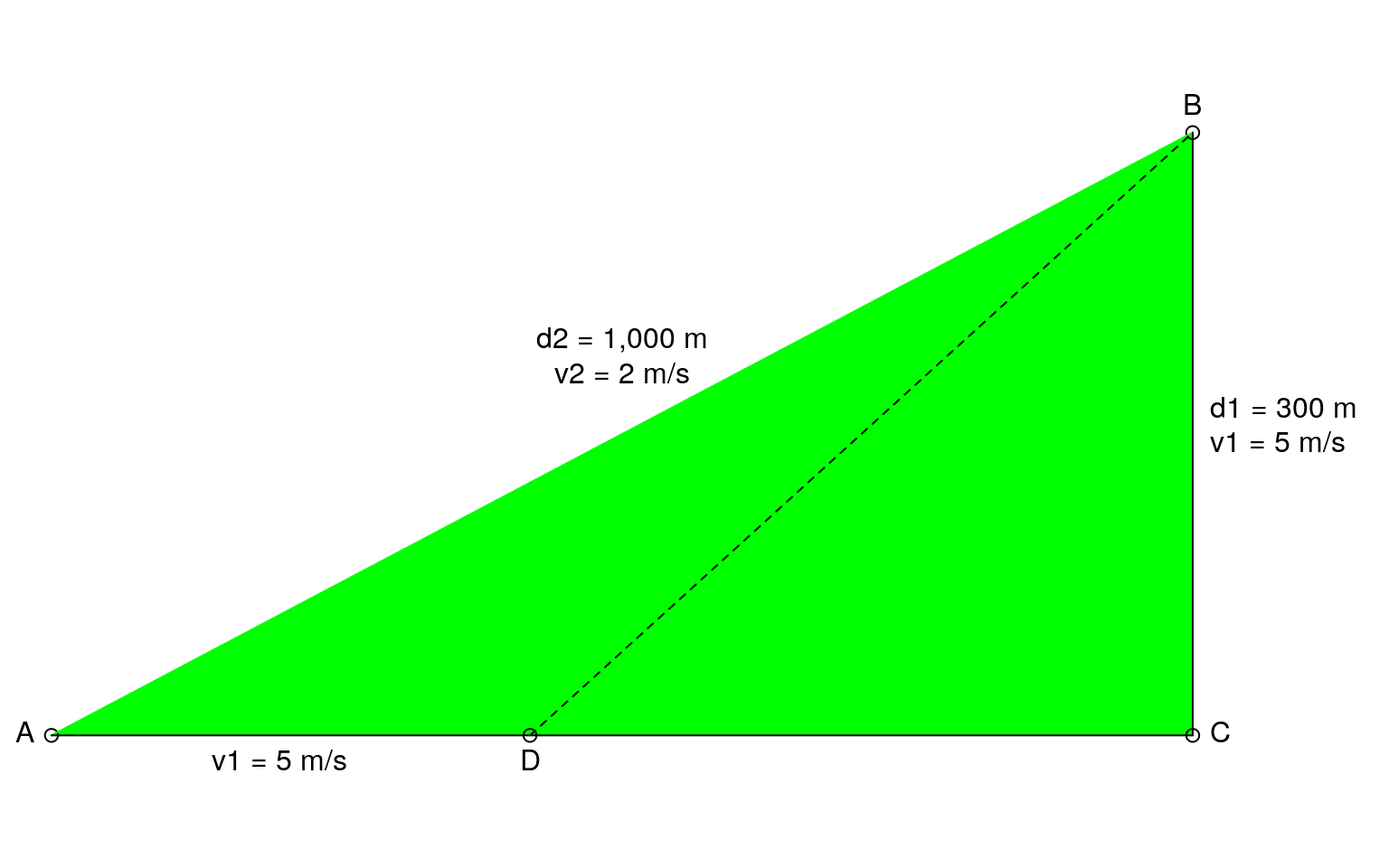
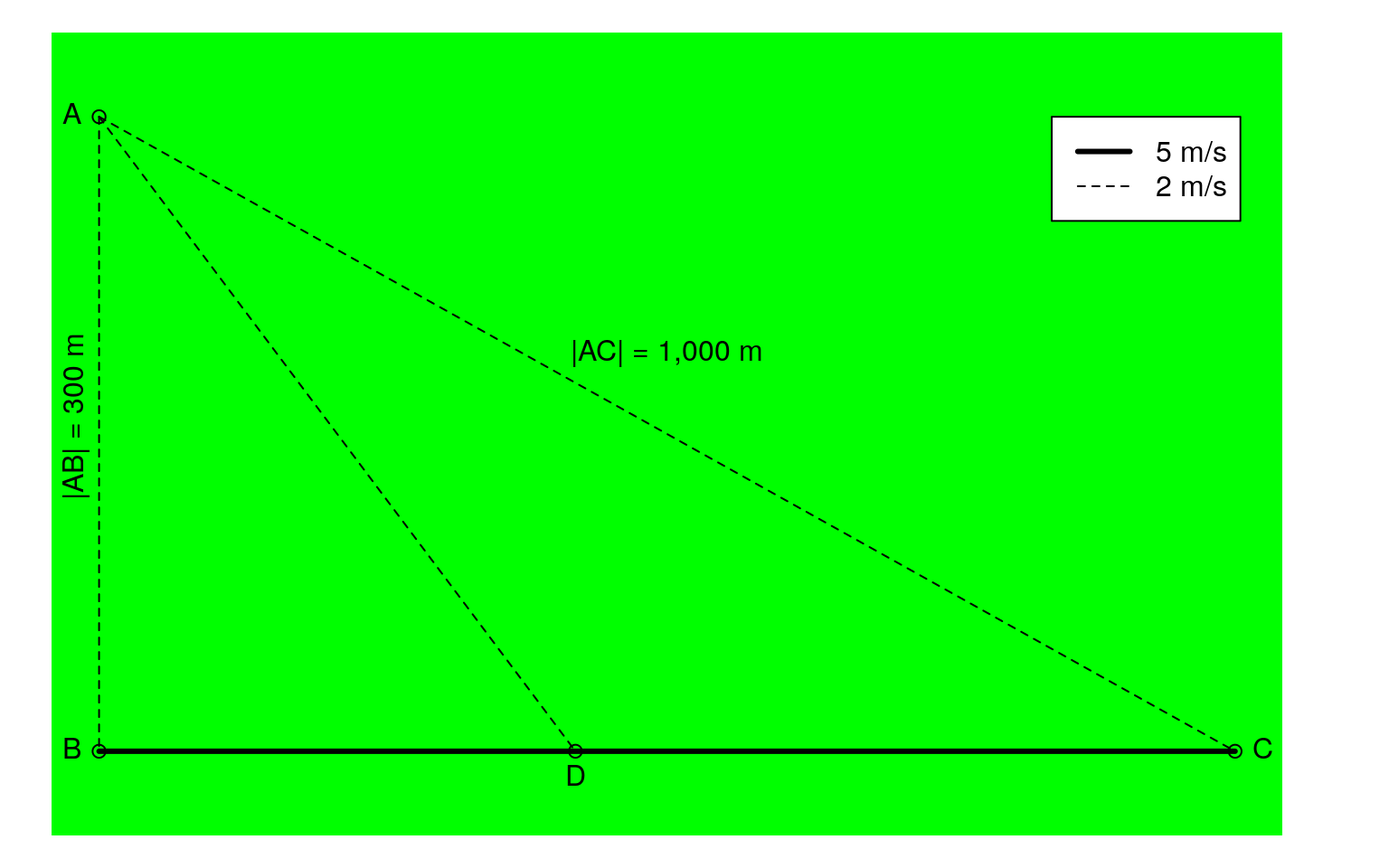
Corrections

diff --git a/docs/articles/fastest-route.html b/docs/articles/fastest-route.html
@@ -102,7 +102,7 @@
     
 <div class="sourceCode" id="cb1"><pre class="sourceCode r"><code class="sourceCode r"><a class="sourceLine" id="cb1-1" data-line-number="1"><span class="kw"><a href="https://rdrr.io/r/base/library.html">library</a></span>(caracas)</a></code></pre></div>
 <p>A <a href="https://ing.dk/artikel/taenkeboks-hurtigste-vej-mellem-a-b-1150-m-lang-232871">problem</a> was posted by the Danish newspaper, <em>Ingeniøren</em>, and it goes like this:</p>
-<p>You are in a forest located at <span class="math inline">\(A\)</span>. You need to get to <span class="math inline">\(B\)</span> in the fastest way possible. But you can only change direction once. You can take the longer walking path (<span class="math inline">\(AC\)</span> and <span class="math inline">\(CB\)</span>) where you can walk fast, the direct path through the forest (<span class="math inline">\(AB\)</span>) where you have to walk slower, or first take the fast walking path some distance, <span class="math inline">\(k\)</span>, and then cross through the forest (<span class="math inline">\(AD\)</span>, <span class="math inline">\(DB\)</span>).</p>
+<p>You are in the middle of a dense forest located at <span class="math inline">\(A\)</span>. You need to get to <span class="math inline">\(C\)</span> in the fastest way possible, and you can only change direction once. You can walk directly via <span class="math inline">\(AB\)</span> to the dedicated walking path <span class="math inline">\(BC\)</span> where you can walk fast, you can take the direct path through the forest (<span class="math inline">\(AC\)</span>) where you have to walk slower, or cross through the forest to the dedicated walking path (<span class="math inline">\(AD\)</span> and then <span class="math inline">\(DC\)</span>).</p>
 <p><img src="fastest-route_files/figure-html/unnamed-chunk-4-1.png" width="768"></p>
 <div id="information-given" class="section level2">
 <h2 class="hasAnchor">
@@ -111,125 +111,116 @@
 <li>Distances
 <ul>
 <li>
-<span class="math inline">\(|CB| =\)</span> 300 m</li>
+<span class="math inline">\(|AB| =\)</span> 300 m</li>
 <li>
-<span class="math inline">\(|AB| =\)</span> 1,000 m</li>
+<span class="math inline">\(|AC| =\)</span> 1,000 m</li>
 </ul>
 </li>
 <li>Velocities
 <ul>
 <li>
-<span class="math inline">\(v_{AC} = 5\)</span> m/s</li>
-<li>
-<span class="math inline">\(v_{CB} = 5\)</span> m/s</li>
-<li>
 <span class="math inline">\(v_{AB} = 2\)</span> m/s</li>
 <li>
-<span class="math inline">\(v_{DB} = 2\)</span> m/s</li>
+<span class="math inline">\(v_{AD} = 2\)</span> m/s</li>
+<li>
+<span class="math inline">\(v_{AC} = 2\)</span> m/s</li>
+<li>
+<span class="math inline">\(v_{BC} = 5\)</span> m/s</li>
 </ul>
 </li>
 </ul>
 <div id="length-of-line-segments" class="section level3">
 <h3 class="hasAnchor">
 <a href="#length-of-line-segments" class="anchor"></a>Length of line segments</h3>
-<p>We parameterise with <span class="math inline">\(k = |AD|\)</span>, the distance between <span class="math inline">\(A\)</span> and <span class="math inline">\(D\)</span>. That is, how much to walk on fast walking path before crossing into the forest.</p>
+<p>We parameterise with <span class="math inline">\(k = |BD|\)</span>, the distance between <span class="math inline">\(B\)</span> and <span class="math inline">\(D\)</span>. That is, how much to walk on fast walking path before crossing into the forest.</p>
 <p>Formulating using <code>caracas</code>:</p>
-<div class="sourceCode" id="cb2"><pre class="sourceCode r"><code class="sourceCode r"><a class="sourceLine" id="cb2-1" data-line-number="1">CB &lt;-<span class="st"> </span><span class="kw"><a href="../reference/as_symbol.html">as_symbol</a></span>(<span class="st">'300'</span>)</a>
-<a class="sourceLine" id="cb2-2" data-line-number="2">CB</a>
+<div class="sourceCode" id="cb2"><pre class="sourceCode r"><code class="sourceCode r"><a class="sourceLine" id="cb2-1" data-line-number="1">AB &lt;-<span class="st"> </span><span class="kw"><a href="../reference/as_symbol.html">as_symbol</a></span>(<span class="st">'300'</span>)</a>
+<a class="sourceLine" id="cb2-2" data-line-number="2">AB</a>
 <a class="sourceLine" id="cb2-3" data-line-number="3"><span class="co">#&gt; [caracas]: 300</span></a>
-<a class="sourceLine" id="cb2-4" data-line-number="4">AB &lt;-<span class="st"> </span><span class="kw"><a href="../reference/as_symbol.html">as_symbol</a></span>(<span class="st">'1000'</span>)</a>
-<a class="sourceLine" id="cb2-5" data-line-number="5">AB</a>
+<a class="sourceLine" id="cb2-4" data-line-number="4">AC &lt;-<span class="st"> </span><span class="kw"><a href="../reference/as_symbol.html">as_symbol</a></span>(<span class="st">'1000'</span>)</a>
+<a class="sourceLine" id="cb2-5" data-line-number="5">AC</a>
 <a class="sourceLine" id="cb2-6" data-line-number="6"><span class="co">#&gt; [caracas]: 1000</span></a>
-<a class="sourceLine" id="cb2-7" data-line-number="7">AC &lt;-<span class="st"> </span><span class="kw"><a href="https://rdrr.io/r/base/MathFun.html">sqrt</a></span>(AB<span class="op">^</span><span class="dv">2</span> <span class="op">-</span><span class="st"> </span>CB<span class="op">^</span><span class="dv">2</span>)</a>
-<a class="sourceLine" id="cb2-8" data-line-number="8">AC</a>
+<a class="sourceLine" id="cb2-7" data-line-number="7">BC &lt;-<span class="st"> </span><span class="kw"><a href="https://rdrr.io/r/base/MathFun.html">sqrt</a></span>(AC<span class="op">^</span><span class="dv">2</span> <span class="op">-</span><span class="st"> </span>AB<span class="op">^</span><span class="dv">2</span>)</a>
+<a class="sourceLine" id="cb2-8" data-line-number="8">BC</a>
 <a class="sourceLine" id="cb2-9" data-line-number="9"><span class="co">#&gt; [caracas]: 100⋅√91</span></a>
-<a class="sourceLine" id="cb2-10" data-line-number="10">k &lt;-<span class="st"> </span><span class="kw"><a href="../reference/symbol.html">symbol</a></span>(<span class="st">'k'</span>) <span class="co"># AD</span></a>
-<a class="sourceLine" id="cb2-11" data-line-number="11">DC &lt;-<span class="st"> </span>AC <span class="op">-</span><span class="st"> </span>k</a>
-<a class="sourceLine" id="cb2-12" data-line-number="12">DB &lt;-<span class="st"> </span><span class="kw"><a href="https://rdrr.io/r/base/MathFun.html">sqrt</a></span>(DC<span class="op">^</span><span class="dv">2</span> <span class="op">+</span><span class="st"> </span>CB<span class="op">^</span><span class="dv">2</span>)</a>
-<a class="sourceLine" id="cb2-13" data-line-number="13">DB</a>
-<a class="sourceLine" id="cb2-14" data-line-number="14"><span class="co">#&gt; [caracas]:    _________________________</span></a>
-<a class="sourceLine" id="cb2-15" data-line-number="15"><span class="co">#&gt;              ╱               2         </span></a>
-<a class="sourceLine" id="cb2-16" data-line-number="16"><span class="co">#&gt;            ╲╱  (-k + 100⋅√91)  + 90000</span></a></code></pre></div>
-<p>So for a distance of <span class="math inline">\(k\)</span>, you travel by 5 m/s, and then for a distance of <span class="math inline">\(\sqrt{\left(- k + 100 \sqrt{91}\right)^{2} + 90000}\)</span> you travel by 2 m/s. Thus it takes <span class="math inline">\(k/5\)</span> to travel <span class="math inline">\(AD\)</span> and <span class="math inline">\(\frac{\sqrt{\left(- k + 100 \sqrt{91}\right)^{2} + 90000}}{2}\)</span> to travel <span class="math inline">\(DB\)</span>.</p>
-<p>At the two extreme values for <span class="math inline">\(k = 0\)</span> and <span class="math inline">\(k = |AC|\)</span> we get:</p>
-<div class="sourceCode" id="cb3"><pre class="sourceCode r"><code class="sourceCode r"><a class="sourceLine" id="cb3-1" data-line-number="1"><span class="co"># k = 0: route is AB</span></a>
-<a class="sourceLine" id="cb3-2" data-line-number="2"><span class="kw"><a href="../reference/as_r.html">as_r</a></span>(AB)<span class="op">/</span><span class="dv">2</span></a>
-<a class="sourceLine" id="cb3-3" data-line-number="3"><span class="co">#&gt; [1] 500</span></a>
-<a class="sourceLine" id="cb3-4" data-line-number="4"><span class="co"># k = |AC|: route is AC + CB</span></a>
-<a class="sourceLine" id="cb3-5" data-line-number="5">(<span class="kw"><a href="../reference/as_r.html">as_r</a></span>(AC) <span class="op">+</span><span class="st"> </span><span class="kw"><a href="../reference/as_r.html">as_r</a></span>(CB))<span class="op">/</span><span class="dv">5</span></a>
-<a class="sourceLine" id="cb3-6" data-line-number="6"><span class="co">#&gt; [1] 250.7878</span></a></code></pre></div>
-<p>The question is: Can we do better?</p>
+<a class="sourceLine" id="cb2-10" data-line-number="10">k &lt;-<span class="st"> </span><span class="kw"><a href="../reference/symbol.html">symbol</a></span>(<span class="st">'k'</span>) <span class="co"># |BD|</span></a>
+<a class="sourceLine" id="cb2-11" data-line-number="11">DC &lt;-<span class="st"> </span>BC <span class="op">-</span><span class="st"> </span>k</a>
+<a class="sourceLine" id="cb2-12" data-line-number="12">AD &lt;-<span class="st"> </span><span class="kw"><a href="https://rdrr.io/r/base/MathFun.html">sqrt</a></span>(AB<span class="op">^</span><span class="dv">2</span> <span class="op">+</span><span class="st"> </span>k<span class="op">^</span><span class="dv">2</span>)</a>
+<a class="sourceLine" id="cb2-13" data-line-number="13">AD</a>
+<a class="sourceLine" id="cb2-14" data-line-number="14"><span class="co">#&gt; [caracas]:    ____________</span></a>
+<a class="sourceLine" id="cb2-15" data-line-number="15"><span class="co">#&gt;              ╱  2         </span></a>
+<a class="sourceLine" id="cb2-16" data-line-number="16"><span class="co">#&gt;            ╲╱  k  + 90000</span></a></code></pre></div>
+<p>So for a distance of <span class="math inline">\(|AD|\)</span>, you travel by 5 m/s, and then for a distance of <span class="math inline">\(- k + 100 \sqrt{91}\)</span> you travel by 2 m/s. Thus it takes <span class="math inline">\(\frac{\sqrt{k^{2} + 90000}}{2}\)</span> to travel <span class="math inline">\(AD\)</span> and <span class="math inline">\(- \frac{k}{5} + 20 \sqrt{91}\)</span> to travel <span class="math inline">\(DC\)</span>.</p>
+<p>The question is: What is the fastest way to get from <span class="math inline">\(A\)</span> to <span class="math inline">\(C\)</span>?</p>
 <p>First, the total duration of the route is:</p>
-<div class="sourceCode" id="cb4"><pre class="sourceCode r"><code class="sourceCode r"><a class="sourceLine" id="cb4-1" data-line-number="1">l &lt;-<span class="st"> </span>k<span class="op">/</span><span class="dv">5</span> <span class="op">+</span><span class="st"> </span>DB<span class="op">/</span><span class="dv">2</span></a>
-<a class="sourceLine" id="cb4-2" data-line-number="2">l</a>
-<a class="sourceLine" id="cb4-3" data-line-number="3"><span class="co">#&gt; [caracas]:        _________________________</span></a>
-<a class="sourceLine" id="cb4-4" data-line-number="4"><span class="co">#&gt;                  ╱               2         </span></a>
-<a class="sourceLine" id="cb4-5" data-line-number="5"><span class="co">#&gt;            k   ╲╱  (-k + 100⋅√91)  + 90000 </span></a>
-<a class="sourceLine" id="cb4-6" data-line-number="6"><span class="co">#&gt;            ─ + ────────────────────────────</span></a>
-<a class="sourceLine" id="cb4-7" data-line-number="7"><span class="co">#&gt;            5                2</span></a></code></pre></div>
-<p>(The discontinuity at <span class="math inline">\(k = |AC|\)</span> is ignored.)</p>
-<div class="sourceCode" id="cb5"><pre class="sourceCode r"><code class="sourceCode r"><a class="sourceLine" id="cb5-1" data-line-number="1">lfun &lt;-<span class="st"> </span><span class="kw"><a href="../reference/as_r.html">as_r</a></span>(l)</a>
-<a class="sourceLine" id="cb5-2" data-line-number="2">lfun</a>
-<a class="sourceLine" id="cb5-3" data-line-number="3"><span class="co">#&gt; expression(k/5 + sqrt((-k + 100 * sqrt(91))^2 + 90000)/2)</span></a>
-<a class="sourceLine" id="cb5-4" data-line-number="4">ks &lt;-<span class="st"> </span><span class="kw"><a href="https://rdrr.io/r/base/seq.html">seq</a></span>(<span class="dv">0</span>, <span class="kw"><a href="../reference/as_r.html">as_r</a></span>(AC), <span class="dt">length.out =</span> <span class="dv">100</span>)</a>
-<a class="sourceLine" id="cb5-5" data-line-number="5">ls &lt;-<span class="st"> </span><span class="kw"><a href="https://rdrr.io/r/base/eval.html">eval</a></span>(lfun, <span class="kw"><a href="https://rdrr.io/r/base/list.html">list</a></span>(<span class="dt">k =</span> ks))</a>
-<a class="sourceLine" id="cb5-6" data-line-number="6"><span class="kw"><a href="https://rdrr.io/r/graphics/plot.html">plot</a></span>(ks, ls, <span class="dt">type =</span> <span class="st">"l"</span>)</a></code></pre></div>
-<p><img src="fastest-route_files/figure-html/unnamed-chunk-8-1.png" width="384"></p>
-<p>It looks like a minimum around <span class="math inline">\(k = 800\)</span>.</p>
+<div class="sourceCode" id="cb3"><pre class="sourceCode r"><code class="sourceCode r"><a class="sourceLine" id="cb3-1" data-line-number="1">l &lt;-<span class="st"> </span>AD<span class="op">/</span><span class="dv">2</span> <span class="op">+</span><span class="st"> </span>DC<span class="op">/</span><span class="dv">5</span></a>
+<a class="sourceLine" id="cb3-2" data-line-number="2">l</a>
+<a class="sourceLine" id="cb3-3" data-line-number="3"><span class="co">#&gt; [caracas]:          ____________         </span></a>
+<a class="sourceLine" id="cb3-4" data-line-number="4"><span class="co">#&gt;                    ╱  2                  </span></a>
+<a class="sourceLine" id="cb3-5" data-line-number="5"><span class="co">#&gt;              k   ╲╱  k  + 90000          </span></a>
+<a class="sourceLine" id="cb3-6" data-line-number="6"><span class="co">#&gt;            - ─ + ─────────────── + 20⋅√91</span></a>
+<a class="sourceLine" id="cb3-7" data-line-number="7"><span class="co">#&gt;              5          2</span></a></code></pre></div>
+<div class="sourceCode" id="cb4"><pre class="sourceCode r"><code class="sourceCode r"><a class="sourceLine" id="cb4-1" data-line-number="1">lfun &lt;-<span class="st"> </span><span class="kw"><a href="../reference/as_r.html">as_r</a></span>(l)</a>
+<a class="sourceLine" id="cb4-2" data-line-number="2">lfun</a>
+<a class="sourceLine" id="cb4-3" data-line-number="3"><span class="co">#&gt; expression(-k/5 + sqrt(k^2 + 90000)/2 + 20 * sqrt(91))</span></a>
+<a class="sourceLine" id="cb4-4" data-line-number="4">ks &lt;-<span class="st"> </span><span class="kw"><a href="https://rdrr.io/r/base/seq.html">seq</a></span>(<span class="dv">0</span>, <span class="kw"><a href="../reference/as_r.html">as_r</a></span>(AC), <span class="dt">length.out =</span> <span class="dv">100</span>)</a>
+<a class="sourceLine" id="cb4-5" data-line-number="5">ls &lt;-<span class="st"> </span><span class="kw"><a href="https://rdrr.io/r/base/eval.html">eval</a></span>(lfun, <span class="kw"><a href="https://rdrr.io/r/base/list.html">list</a></span>(<span class="dt">k =</span> ks))</a>
+<a class="sourceLine" id="cb4-6" data-line-number="6"><span class="kw"><a href="https://rdrr.io/r/graphics/plot.html">plot</a></span>(ks, ls, <span class="dt">type =</span> <span class="st">"l"</span>, <span class="dt">xlab =</span> <span class="st">"k"</span>, <span class="dt">ylab =</span> <span class="st">"Time A to C"</span>)</a></code></pre></div>
+<p><img src="fastest-route_files/figure-html/unnamed-chunk-7-1.png" width="672"></p>
+<p>It looks like a minimum around <span class="math inline">\(k = 150\)</span>.</p>
 <p>We find the analytical solution by first finding critical points:</p>
-<div class="sourceCode" id="cb6"><pre class="sourceCode r"><code class="sourceCode r"><a class="sourceLine" id="cb6-1" data-line-number="1">dl &lt;-<span class="st"> </span><span class="kw"><a href="../reference/dd.html">dd</a></span>(l, k)</a>
-<a class="sourceLine" id="cb6-2" data-line-number="2">dl</a>
-<a class="sourceLine" id="cb6-3" data-line-number="3"><span class="co">#&gt; [caracas]:          k - 100⋅√91             1</span></a>
-<a class="sourceLine" id="cb6-4" data-line-number="4"><span class="co">#&gt;            ────────────────────────────── + ─</span></a>
-<a class="sourceLine" id="cb6-5" data-line-number="5"><span class="co">#&gt;                 _________________________   5</span></a>
-<a class="sourceLine" id="cb6-6" data-line-number="6"><span class="co">#&gt;                ╱               2             </span></a>
-<a class="sourceLine" id="cb6-7" data-line-number="7"><span class="co">#&gt;            2⋅╲╱  (-k + 100⋅√91)  + 90000</span></a>
-<a class="sourceLine" id="cb6-8" data-line-number="8">crit_points &lt;-<span class="st"> </span><span class="kw"><a href="../reference/rootsolve.html">rootsolve</a></span>(dl, k)</a>
-<a class="sourceLine" id="cb6-9" data-line-number="9">crit_points</a>
-<a class="sourceLine" id="cb6-10" data-line-number="10"><span class="co">#&gt; [[1]]</span></a>
-<a class="sourceLine" id="cb6-11" data-line-number="11"><span class="co">#&gt; [[1]]$k</span></a>
-<a class="sourceLine" id="cb6-12" data-line-number="12"><span class="co">#&gt; [caracas]:   200⋅√21          </span></a>
-<a class="sourceLine" id="cb6-13" data-line-number="13"><span class="co">#&gt;            - ─────── + 100⋅√91</span></a>
-<a class="sourceLine" id="cb6-14" data-line-number="14"><span class="co">#&gt;                 7</span></a>
-<a class="sourceLine" id="cb6-15" data-line-number="15">best_k &lt;-<span class="st"> </span>crit_points[[<span class="dv">1</span>]]<span class="op">$</span>k</a>
-<a class="sourceLine" id="cb6-16" data-line-number="16">best_k</a>
-<a class="sourceLine" id="cb6-17" data-line-number="17"><span class="co">#&gt; [caracas]:   200⋅√21          </span></a>
-<a class="sourceLine" id="cb6-18" data-line-number="18"><span class="co">#&gt;            - ─────── + 100⋅√91</span></a>
-<a class="sourceLine" id="cb6-19" data-line-number="19"><span class="co">#&gt;                 7</span></a></code></pre></div>
+<div class="sourceCode" id="cb5"><pre class="sourceCode r"><code class="sourceCode r"><a class="sourceLine" id="cb5-1" data-line-number="1">dl &lt;-<span class="st"> </span><span class="kw"><a href="../reference/dd.html">dd</a></span>(l, k)</a>
+<a class="sourceLine" id="cb5-2" data-line-number="2">dl</a>
+<a class="sourceLine" id="cb5-3" data-line-number="3"><span class="co">#&gt; [caracas]:         k           1</span></a>
+<a class="sourceLine" id="cb5-4" data-line-number="4"><span class="co">#&gt;            ───────────────── - ─</span></a>
+<a class="sourceLine" id="cb5-5" data-line-number="5"><span class="co">#&gt;                 ____________   5</span></a>
+<a class="sourceLine" id="cb5-6" data-line-number="6"><span class="co">#&gt;                ╱  2             </span></a>
+<a class="sourceLine" id="cb5-7" data-line-number="7"><span class="co">#&gt;            2⋅╲╱  k  + 90000</span></a>
+<a class="sourceLine" id="cb5-8" data-line-number="8">crit_points &lt;-<span class="st"> </span><span class="kw"><a href="../reference/rootsolve.html">rootsolve</a></span>(dl, k)</a>
+<a class="sourceLine" id="cb5-9" data-line-number="9">crit_points</a>
+<a class="sourceLine" id="cb5-10" data-line-number="10"><span class="co">#&gt; [[1]]</span></a>
+<a class="sourceLine" id="cb5-11" data-line-number="11"><span class="co">#&gt; [[1]]$k</span></a>
+<a class="sourceLine" id="cb5-12" data-line-number="12"><span class="co">#&gt; [caracas]: 200⋅√21</span></a>
+<a class="sourceLine" id="cb5-13" data-line-number="13"><span class="co">#&gt;            ───────</span></a>
+<a class="sourceLine" id="cb5-14" data-line-number="14"><span class="co">#&gt;               7</span></a>
+<a class="sourceLine" id="cb5-15" data-line-number="15">best_k &lt;-<span class="st"> </span>crit_points[[<span class="dv">1</span>]]<span class="op">$</span>k</a>
+<a class="sourceLine" id="cb5-16" data-line-number="16">best_k</a>
+<a class="sourceLine" id="cb5-17" data-line-number="17"><span class="co">#&gt; [caracas]: 200⋅√21</span></a>
+<a class="sourceLine" id="cb5-18" data-line-number="18"><span class="co">#&gt;            ───────</span></a>
+<a class="sourceLine" id="cb5-19" data-line-number="19"><span class="co">#&gt;               7</span></a></code></pre></div>
 <p>The type of the critical point is found by considering the Hessian:</p>
-<div class="sourceCode" id="cb7"><pre class="sourceCode r"><code class="sourceCode r"><a class="sourceLine" id="cb7-1" data-line-number="1"><span class="kw"><a href="https://rdrr.io/r/base/eval.html">eval</a></span>(<span class="kw"><a href="../reference/as_r.html">as_r</a></span>(<span class="kw"><a href="../reference/dd.html">dd</a></span>(dl, k)), <span class="kw"><a href="https://rdrr.io/r/base/list.html">list</a></span>(<span class="dt">k =</span> <span class="kw"><a href="../reference/as_r.html">as_r</a></span>(best_k)))</a>
-<a class="sourceLine" id="cb7-2" data-line-number="2"><span class="co">#&gt; [1] 0.001283121</span></a></code></pre></div>
+<div class="sourceCode" id="cb6"><pre class="sourceCode r"><code class="sourceCode r"><a class="sourceLine" id="cb6-1" data-line-number="1"><span class="kw"><a href="https://rdrr.io/r/base/eval.html">eval</a></span>(<span class="kw"><a href="../reference/as_r.html">as_r</a></span>(<span class="kw"><a href="../reference/dd.html">dd</a></span>(dl, k)), <span class="kw"><a href="https://rdrr.io/r/base/list.html">list</a></span>(<span class="dt">k =</span> <span class="kw"><a href="../reference/as_r.html">as_r</a></span>(best_k)))</a>
+<a class="sourceLine" id="cb6-2" data-line-number="2"><span class="co">#&gt; [1] 0.001283121</span></a></code></pre></div>
 <p>Thus the critical point is indeed a minimum as suggested by the plot.</p>
 <p>The fastest route is thus obtained for <span class="math display">\[
-  k = - \frac{200 \sqrt{21}}{7} + 100 \sqrt{91} \approx 823.01 .
+  k = \frac{200 \sqrt{21}}{7} \approx 130.93 .
 \]</span> It has a length of (in meters)</p>
-<div class="sourceCode" id="cb8"><pre class="sourceCode r"><code class="sourceCode r"><a class="sourceLine" id="cb8-1" data-line-number="1">DC_best &lt;-<span class="st"> </span>AC <span class="op">-</span><span class="st"> </span>best_k</a>
-<a class="sourceLine" id="cb8-2" data-line-number="2">DB_best &lt;-<span class="st"> </span><span class="kw"><a href="https://rdrr.io/r/base/MathFun.html">sqrt</a></span>(DC_best<span class="op">^</span><span class="dv">2</span> <span class="op">+</span><span class="st"> </span>CB<span class="op">^</span><span class="dv">2</span>)</a>
-<a class="sourceLine" id="cb8-3" data-line-number="3">DB_best</a>
-<a class="sourceLine" id="cb8-4" data-line-number="4"><span class="co">#&gt; [caracas]: 500⋅√21</span></a>
-<a class="sourceLine" id="cb8-5" data-line-number="5"><span class="co">#&gt;            ───────</span></a>
-<a class="sourceLine" id="cb8-6" data-line-number="6"><span class="co">#&gt;               7</span></a>
-<a class="sourceLine" id="cb8-7" data-line-number="7">best_route &lt;-<span class="st"> </span>best_k <span class="op">+</span><span class="st"> </span>DB_best</a>
-<a class="sourceLine" id="cb8-8" data-line-number="8">best_route</a>
-<a class="sourceLine" id="cb8-9" data-line-number="9"><span class="co">#&gt; [caracas]: 300⋅√21          </span></a>
-<a class="sourceLine" id="cb8-10" data-line-number="10"><span class="co">#&gt;            ─────── + 100⋅√91</span></a>
-<a class="sourceLine" id="cb8-11" data-line-number="11"><span class="co">#&gt;               7</span></a>
-<a class="sourceLine" id="cb8-12" data-line-number="12"><span class="kw"><a href="../reference/as_r.html">as_r</a></span>(best_route)</a>
-<a class="sourceLine" id="cb8-13" data-line-number="13"><span class="co">#&gt; [1] 1150.335</span></a></code></pre></div>
+<div class="sourceCode" id="cb7"><pre class="sourceCode r"><code class="sourceCode r"><a class="sourceLine" id="cb7-1" data-line-number="1">DC_best &lt;-<span class="st"> </span>BC <span class="op">-</span><span class="st"> </span>best_k</a>
+<a class="sourceLine" id="cb7-2" data-line-number="2">AD_best &lt;-<span class="st"> </span><span class="kw"><a href="https://rdrr.io/r/base/MathFun.html">sqrt</a></span>(AB<span class="op">^</span><span class="dv">2</span> <span class="op">+</span><span class="st"> </span>best_k<span class="op">^</span><span class="dv">2</span>)</a>
+<a class="sourceLine" id="cb7-3" data-line-number="3">AD_best</a>
+<a class="sourceLine" id="cb7-4" data-line-number="4"><span class="co">#&gt; [caracas]: 500⋅√21</span></a>
+<a class="sourceLine" id="cb7-5" data-line-number="5"><span class="co">#&gt;            ───────</span></a>
+<a class="sourceLine" id="cb7-6" data-line-number="6"><span class="co">#&gt;               7</span></a>
+<a class="sourceLine" id="cb7-7" data-line-number="7">best_route &lt;-<span class="st"> </span>AD_best <span class="op">+</span><span class="st"> </span>DC_best</a>
+<a class="sourceLine" id="cb7-8" data-line-number="8">best_route</a>
+<a class="sourceLine" id="cb7-9" data-line-number="9"><span class="co">#&gt; [caracas]: 300⋅√21          </span></a>
+<a class="sourceLine" id="cb7-10" data-line-number="10"><span class="co">#&gt;            ─────── + 100⋅√91</span></a>
+<a class="sourceLine" id="cb7-11" data-line-number="11"><span class="co">#&gt;               7</span></a>
+<a class="sourceLine" id="cb7-12" data-line-number="12"><span class="kw"><a href="../reference/as_r.html">as_r</a></span>(best_route)</a>
+<a class="sourceLine" id="cb7-13" data-line-number="13"><span class="co">#&gt; [1] 1150.335</span></a></code></pre></div>
 <p><span class="math display">\[
   \frac{300 \sqrt{21}}{7} + 100 \sqrt{91} \approx 1150.34
 \]</span> and takes (in seconds)</p>
-<div class="sourceCode" id="cb9"><pre class="sourceCode r"><code class="sourceCode r"><a class="sourceLine" id="cb9-1" data-line-number="1">best_l &lt;-<span class="st"> </span><span class="kw"><a href="../reference/subs.html">subs</a></span>(l, <span class="st">"k"</span>, best_k)</a>
-<a class="sourceLine" id="cb9-2" data-line-number="2">best_l</a>
-<a class="sourceLine" id="cb9-3" data-line-number="3"><span class="co">#&gt; [caracas]: 30⋅√21 + 20⋅√91</span></a>
-<a class="sourceLine" id="cb9-4" data-line-number="4"><span class="kw"><a href="../reference/as_r.html">as_r</a></span>(best_l)</a>
-<a class="sourceLine" id="cb9-5" data-line-number="5"><span class="co">#&gt; [1] 328.2651</span></a></code></pre></div>
+<div class="sourceCode" id="cb8"><pre class="sourceCode r"><code class="sourceCode r"><a class="sourceLine" id="cb8-1" data-line-number="1">best_l &lt;-<span class="st"> </span><span class="kw"><a href="../reference/subs.html">subs</a></span>(l, <span class="st">"k"</span>, best_k)</a>
+<a class="sourceLine" id="cb8-2" data-line-number="2">best_l</a>
+<a class="sourceLine" id="cb8-3" data-line-number="3"><span class="co">#&gt; [caracas]: 30⋅√21 + 20⋅√91</span></a>
+<a class="sourceLine" id="cb8-4" data-line-number="4"><span class="kw"><a href="../reference/as_r.html">as_r</a></span>(best_l)</a>
+<a class="sourceLine" id="cb8-5" data-line-number="5"><span class="co">#&gt; [1] 328.2651</span></a></code></pre></div>
 <p><span class="math display">\[
   30 \sqrt{21} + 20 \sqrt{91} \approx 328.27
 \]</span></p>
 <p>The best route can be illustrated, too:</p>
-<p><img src="fastest-route_files/figure-html/unnamed-chunk-13-1.png" width="768"></p>
-<p>We end up concluding that the above is the best route if forced to go through forest. But if one can choose to use the dedicated walking path the entire way, then that is actually the fastest. In contrast to what the <a href="https://ing.dk/artikel/taenkeboks-hurtigste-vej-mellem-a-b-1150-m-lang-232871">answer</a> originally says.</p>
+<p><img src="fastest-route_files/figure-html/unnamed-chunk-12-1.png" width="768"></p>
 </div>
 </div>
   </div>

diff --git a/docs/articles/sympy-object.html b/docs/articles/sympy-object.html
@@ -200,58 +200,58 @@
 <a class="sourceLine" id="cb10-7" data-line-number="7"><span class="co">#&gt; $positive</span></a>
 <a class="sourceLine" id="cb10-8" data-line-number="8"><span class="co">#&gt; [1] TRUE</span></a>
 <a class="sourceLine" id="cb10-9" data-line-number="9"><span class="co">#&gt; </span></a>
-<a class="sourceLine" id="cb10-10" data-line-number="10"><span class="co">#&gt; $nonzero</span></a>
+<a class="sourceLine" id="cb10-10" data-line-number="10"><span class="co">#&gt; $real</span></a>
 <a class="sourceLine" id="cb10-11" data-line-number="11"><span class="co">#&gt; [1] TRUE</span></a>
 <a class="sourceLine" id="cb10-12" data-line-number="12"><span class="co">#&gt; </span></a>
-<a class="sourceLine" id="cb10-13" data-line-number="13"><span class="co">#&gt; $negative</span></a>
+<a class="sourceLine" id="cb10-13" data-line-number="13"><span class="co">#&gt; $imaginary</span></a>
 <a class="sourceLine" id="cb10-14" data-line-number="14"><span class="co">#&gt; [1] FALSE</span></a>
 <a class="sourceLine" id="cb10-15" data-line-number="15"><span class="co">#&gt; </span></a>
-<a class="sourceLine" id="cb10-16" data-line-number="16"><span class="co">#&gt; $extended_real</span></a>
+<a class="sourceLine" id="cb10-16" data-line-number="16"><span class="co">#&gt; $nonzero</span></a>
 <a class="sourceLine" id="cb10-17" data-line-number="17"><span class="co">#&gt; [1] TRUE</span></a>
 <a class="sourceLine" id="cb10-18" data-line-number="18"><span class="co">#&gt; </span></a>
 <a class="sourceLine" id="cb10-19" data-line-number="19"><span class="co">#&gt; $extended_nonzero</span></a>
 <a class="sourceLine" id="cb10-20" data-line-number="20"><span class="co">#&gt; [1] TRUE</span></a>
 <a class="sourceLine" id="cb10-21" data-line-number="21"><span class="co">#&gt; </span></a>
-<a class="sourceLine" id="cb10-22" data-line-number="22"><span class="co">#&gt; $infinite</span></a>
-<a class="sourceLine" id="cb10-23" data-line-number="23"><span class="co">#&gt; [1] FALSE</span></a>
+<a class="sourceLine" id="cb10-22" data-line-number="22"><span class="co">#&gt; $nonnegative</span></a>
+<a class="sourceLine" id="cb10-23" data-line-number="23"><span class="co">#&gt; [1] TRUE</span></a>
 <a class="sourceLine" id="cb10-24" data-line-number="24"><span class="co">#&gt; </span></a>
-<a class="sourceLine" id="cb10-25" data-line-number="25"><span class="co">#&gt; $nonnegative</span></a>
+<a class="sourceLine" id="cb10-25" data-line-number="25"><span class="co">#&gt; $extended_positive</span></a>
 <a class="sourceLine" id="cb10-26" data-line-number="26"><span class="co">#&gt; [1] TRUE</span></a>
 <a class="sourceLine" id="cb10-27" data-line-number="27"><span class="co">#&gt; </span></a>
 <a class="sourceLine" id="cb10-28" data-line-number="28"><span class="co">#&gt; $zero</span></a>
 <a class="sourceLine" id="cb10-29" data-line-number="29"><span class="co">#&gt; [1] FALSE</span></a>
 <a class="sourceLine" id="cb10-30" data-line-number="30"><span class="co">#&gt; </span></a>
-<a class="sourceLine" id="cb10-31" data-line-number="31"><span class="co">#&gt; $extended_nonnegative</span></a>
-<a class="sourceLine" id="cb10-32" data-line-number="32"><span class="co">#&gt; [1] TRUE</span></a>
+<a class="sourceLine" id="cb10-31" data-line-number="31"><span class="co">#&gt; $nonpositive</span></a>
+<a class="sourceLine" id="cb10-32" data-line-number="32"><span class="co">#&gt; [1] FALSE</span></a>
 <a class="sourceLine" id="cb10-33" data-line-number="33"><span class="co">#&gt; </span></a>
-<a class="sourceLine" id="cb10-34" data-line-number="34"><span class="co">#&gt; $commutative</span></a>
-<a class="sourceLine" id="cb10-35" data-line-number="35"><span class="co">#&gt; [1] TRUE</span></a>
+<a class="sourceLine" id="cb10-34" data-line-number="34"><span class="co">#&gt; $extended_nonpositive</span></a>
+<a class="sourceLine" id="cb10-35" data-line-number="35"><span class="co">#&gt; [1] FALSE</span></a>
 <a class="sourceLine" id="cb10-36" data-line-number="36"><span class="co">#&gt; </span></a>
-<a class="sourceLine" id="cb10-37" data-line-number="37"><span class="co">#&gt; $hermitian</span></a>
-<a class="sourceLine" id="cb10-38" data-line-number="38"><span class="co">#&gt; [1] TRUE</span></a>
+<a class="sourceLine" id="cb10-37" data-line-number="37"><span class="co">#&gt; $infinite</span></a>
+<a class="sourceLine" id="cb10-38" data-line-number="38"><span class="co">#&gt; [1] FALSE</span></a>
 <a class="sourceLine" id="cb10-39" data-line-number="39"><span class="co">#&gt; </span></a>
-<a class="sourceLine" id="cb10-40" data-line-number="40"><span class="co">#&gt; $extended_nonpositive</span></a>
-<a class="sourceLine" id="cb10-41" data-line-number="41"><span class="co">#&gt; [1] FALSE</span></a>
+<a class="sourceLine" id="cb10-40" data-line-number="40"><span class="co">#&gt; $extended_nonnegative</span></a>
+<a class="sourceLine" id="cb10-41" data-line-number="41"><span class="co">#&gt; [1] TRUE</span></a>
 <a class="sourceLine" id="cb10-42" data-line-number="42"><span class="co">#&gt; </span></a>
-<a class="sourceLine" id="cb10-43" data-line-number="43"><span class="co">#&gt; $imaginary</span></a>
-<a class="sourceLine" id="cb10-44" data-line-number="44"><span class="co">#&gt; [1] FALSE</span></a>
+<a class="sourceLine" id="cb10-43" data-line-number="43"><span class="co">#&gt; $hermitian</span></a>
+<a class="sourceLine" id="cb10-44" data-line-number="44"><span class="co">#&gt; [1] TRUE</span></a>
 <a class="sourceLine" id="cb10-45" data-line-number="45"><span class="co">#&gt; </span></a>
-<a class="sourceLine" id="cb10-46" data-line-number="46"><span class="co">#&gt; $extended_positive</span></a>
-<a class="sourceLine" id="cb10-47" data-line-number="47"><span class="co">#&gt; [1] TRUE</span></a>
+<a class="sourceLine" id="cb10-46" data-line-number="46"><span class="co">#&gt; $negative</span></a>
+<a class="sourceLine" id="cb10-47" data-line-number="47"><span class="co">#&gt; [1] FALSE</span></a>
 <a class="sourceLine" id="cb10-48" data-line-number="48"><span class="co">#&gt; </span></a>
-<a class="sourceLine" id="cb10-49" data-line-number="49"><span class="co">#&gt; $real</span></a>
+<a class="sourceLine" id="cb10-49" data-line-number="49"><span class="co">#&gt; $commutative</span></a>
 <a class="sourceLine" id="cb10-50" data-line-number="50"><span class="co">#&gt; [1] TRUE</span></a>
 <a class="sourceLine" id="cb10-51" data-line-number="51"><span class="co">#&gt; </span></a>
-<a class="sourceLine" id="cb10-52" data-line-number="52"><span class="co">#&gt; $nonpositive</span></a>
+<a class="sourceLine" id="cb10-52" data-line-number="52"><span class="co">#&gt; $extended_negative</span></a>
 <a class="sourceLine" id="cb10-53" data-line-number="53"><span class="co">#&gt; [1] FALSE</span></a>
 <a class="sourceLine" id="cb10-54" data-line-number="54"><span class="co">#&gt; </span></a>
 <a class="sourceLine" id="cb10-55" data-line-number="55"><span class="co">#&gt; $finite</span></a>
 <a class="sourceLine" id="cb10-56" data-line-number="56"><span class="co">#&gt; [1] TRUE</span></a>
 <a class="sourceLine" id="cb10-57" data-line-number="57"><span class="co">#&gt; </span></a>
-<a class="sourceLine" id="cb10-58" data-line-number="58"><span class="co">#&gt; $extended_negative</span></a>
-<a class="sourceLine" id="cb10-59" data-line-number="59"><span class="co">#&gt; [1] FALSE</span></a>
+<a class="sourceLine" id="cb10-58" data-line-number="58"><span class="co">#&gt; $complex</span></a>
+<a class="sourceLine" id="cb10-59" data-line-number="59"><span class="co">#&gt; [1] TRUE</span></a>
 <a class="sourceLine" id="cb10-60" data-line-number="60"><span class="co">#&gt; </span></a>
-<a class="sourceLine" id="cb10-61" data-line-number="61"><span class="co">#&gt; $complex</span></a>
+<a class="sourceLine" id="cb10-61" data-line-number="61"><span class="co">#&gt; $extended_real</span></a>
 <a class="sourceLine" id="cb10-62" data-line-number="62"><span class="co">#&gt; [1] TRUE</span></a>
 <a class="sourceLine" id="cb10-63" data-line-number="63">eq &lt;-<span class="st"> </span>sympy<span class="op">$</span>parsing<span class="op">$</span>sympy_parser<span class="op">$</span><span class="kw">parse_expr</span>(<span class="st">"x**2 - 1"</span>,</a>
 <a class="sourceLine" id="cb10-64" data-line-number="64">                                            <span class="dt">local_dict =</span> <span class="kw"><a href="https://rdrr.io/r/base/list.html">list</a></span>(<span class="st">'x'</span> =<span class="st"> </span>x))</a>
